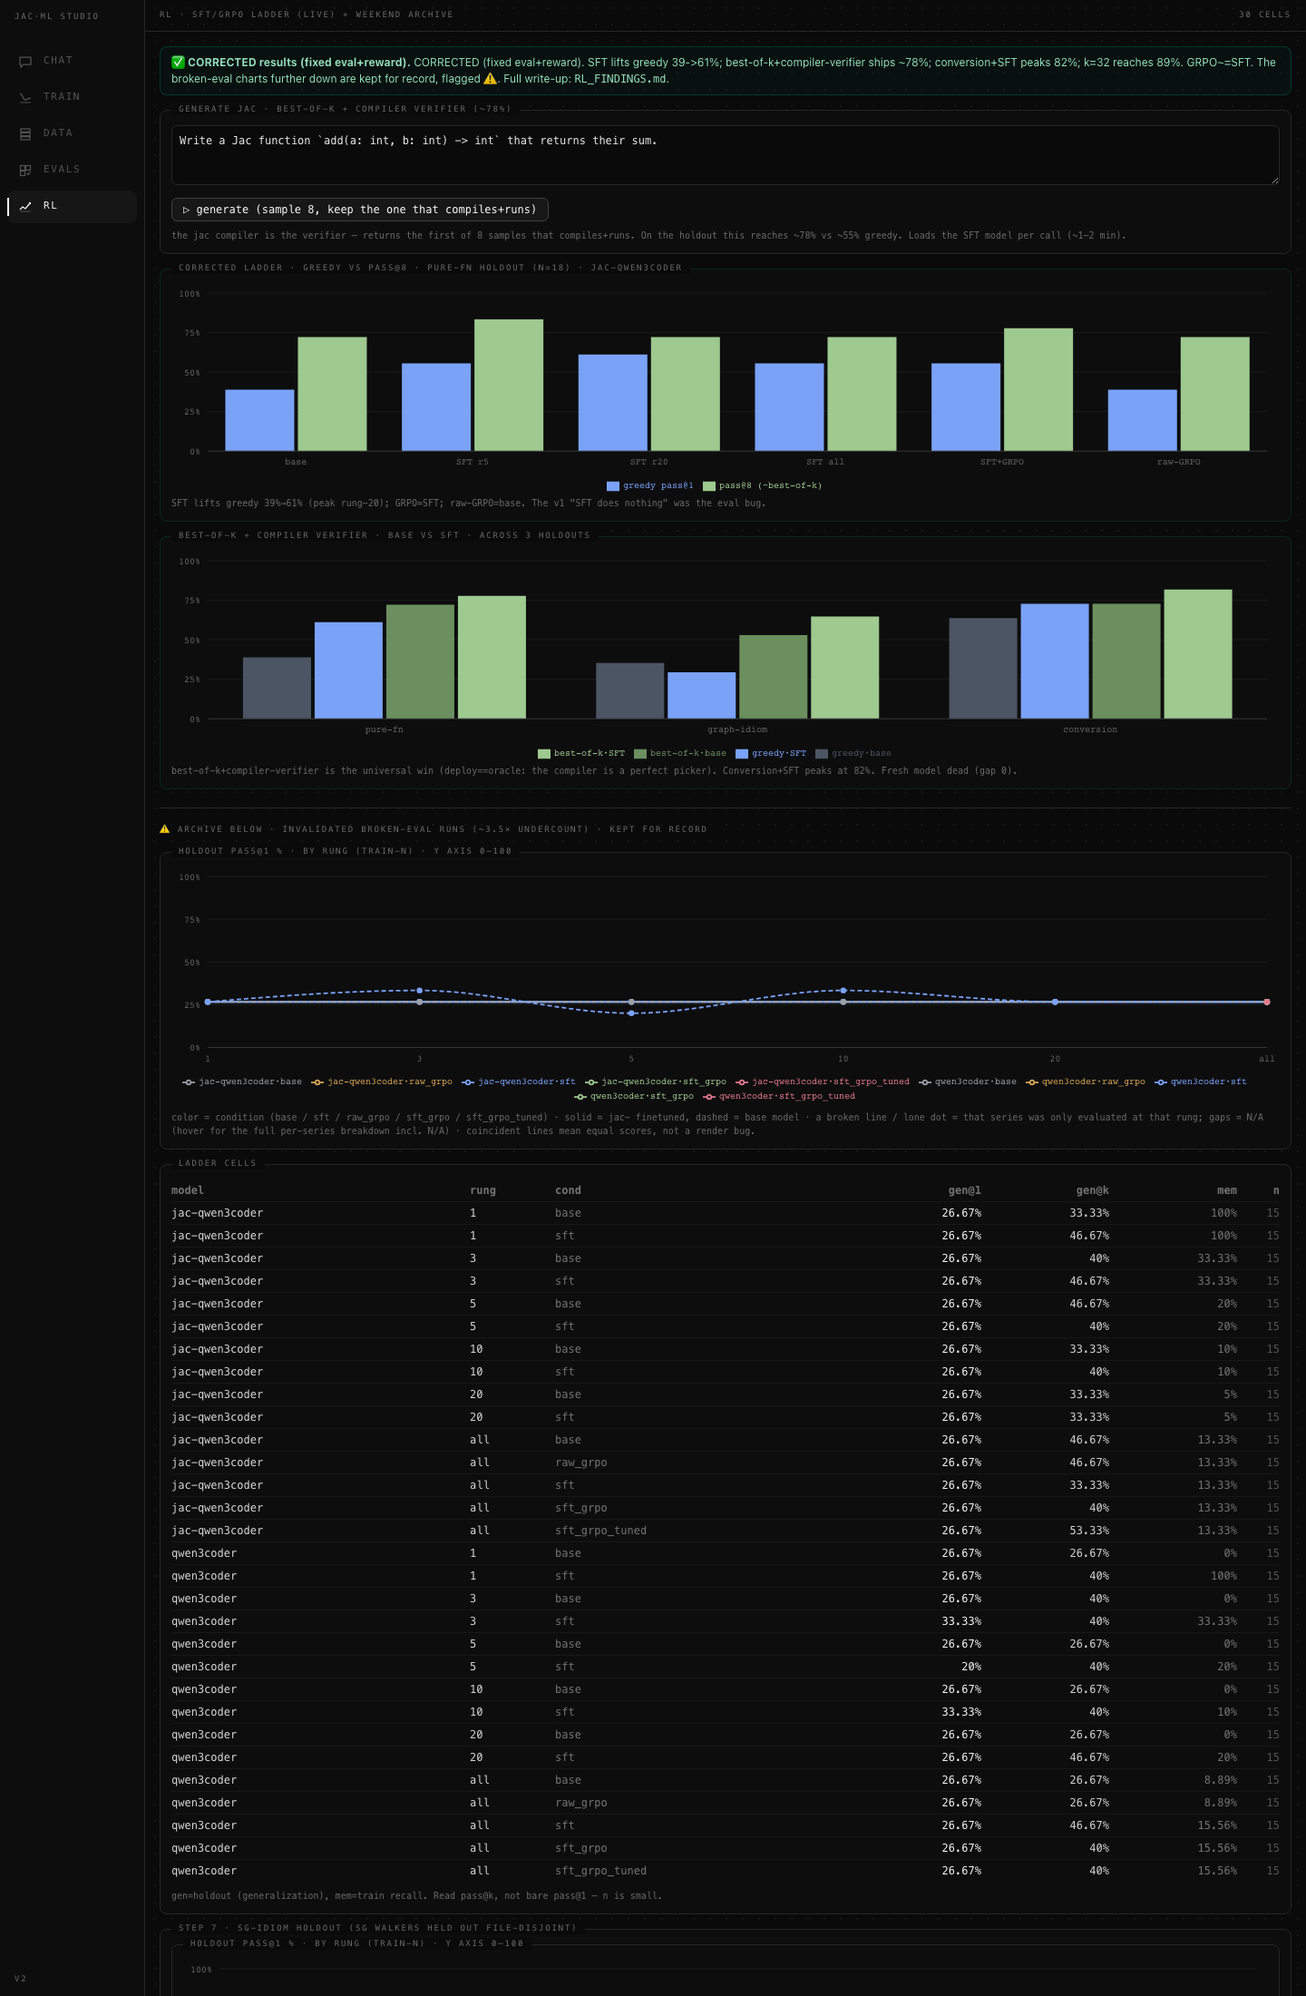
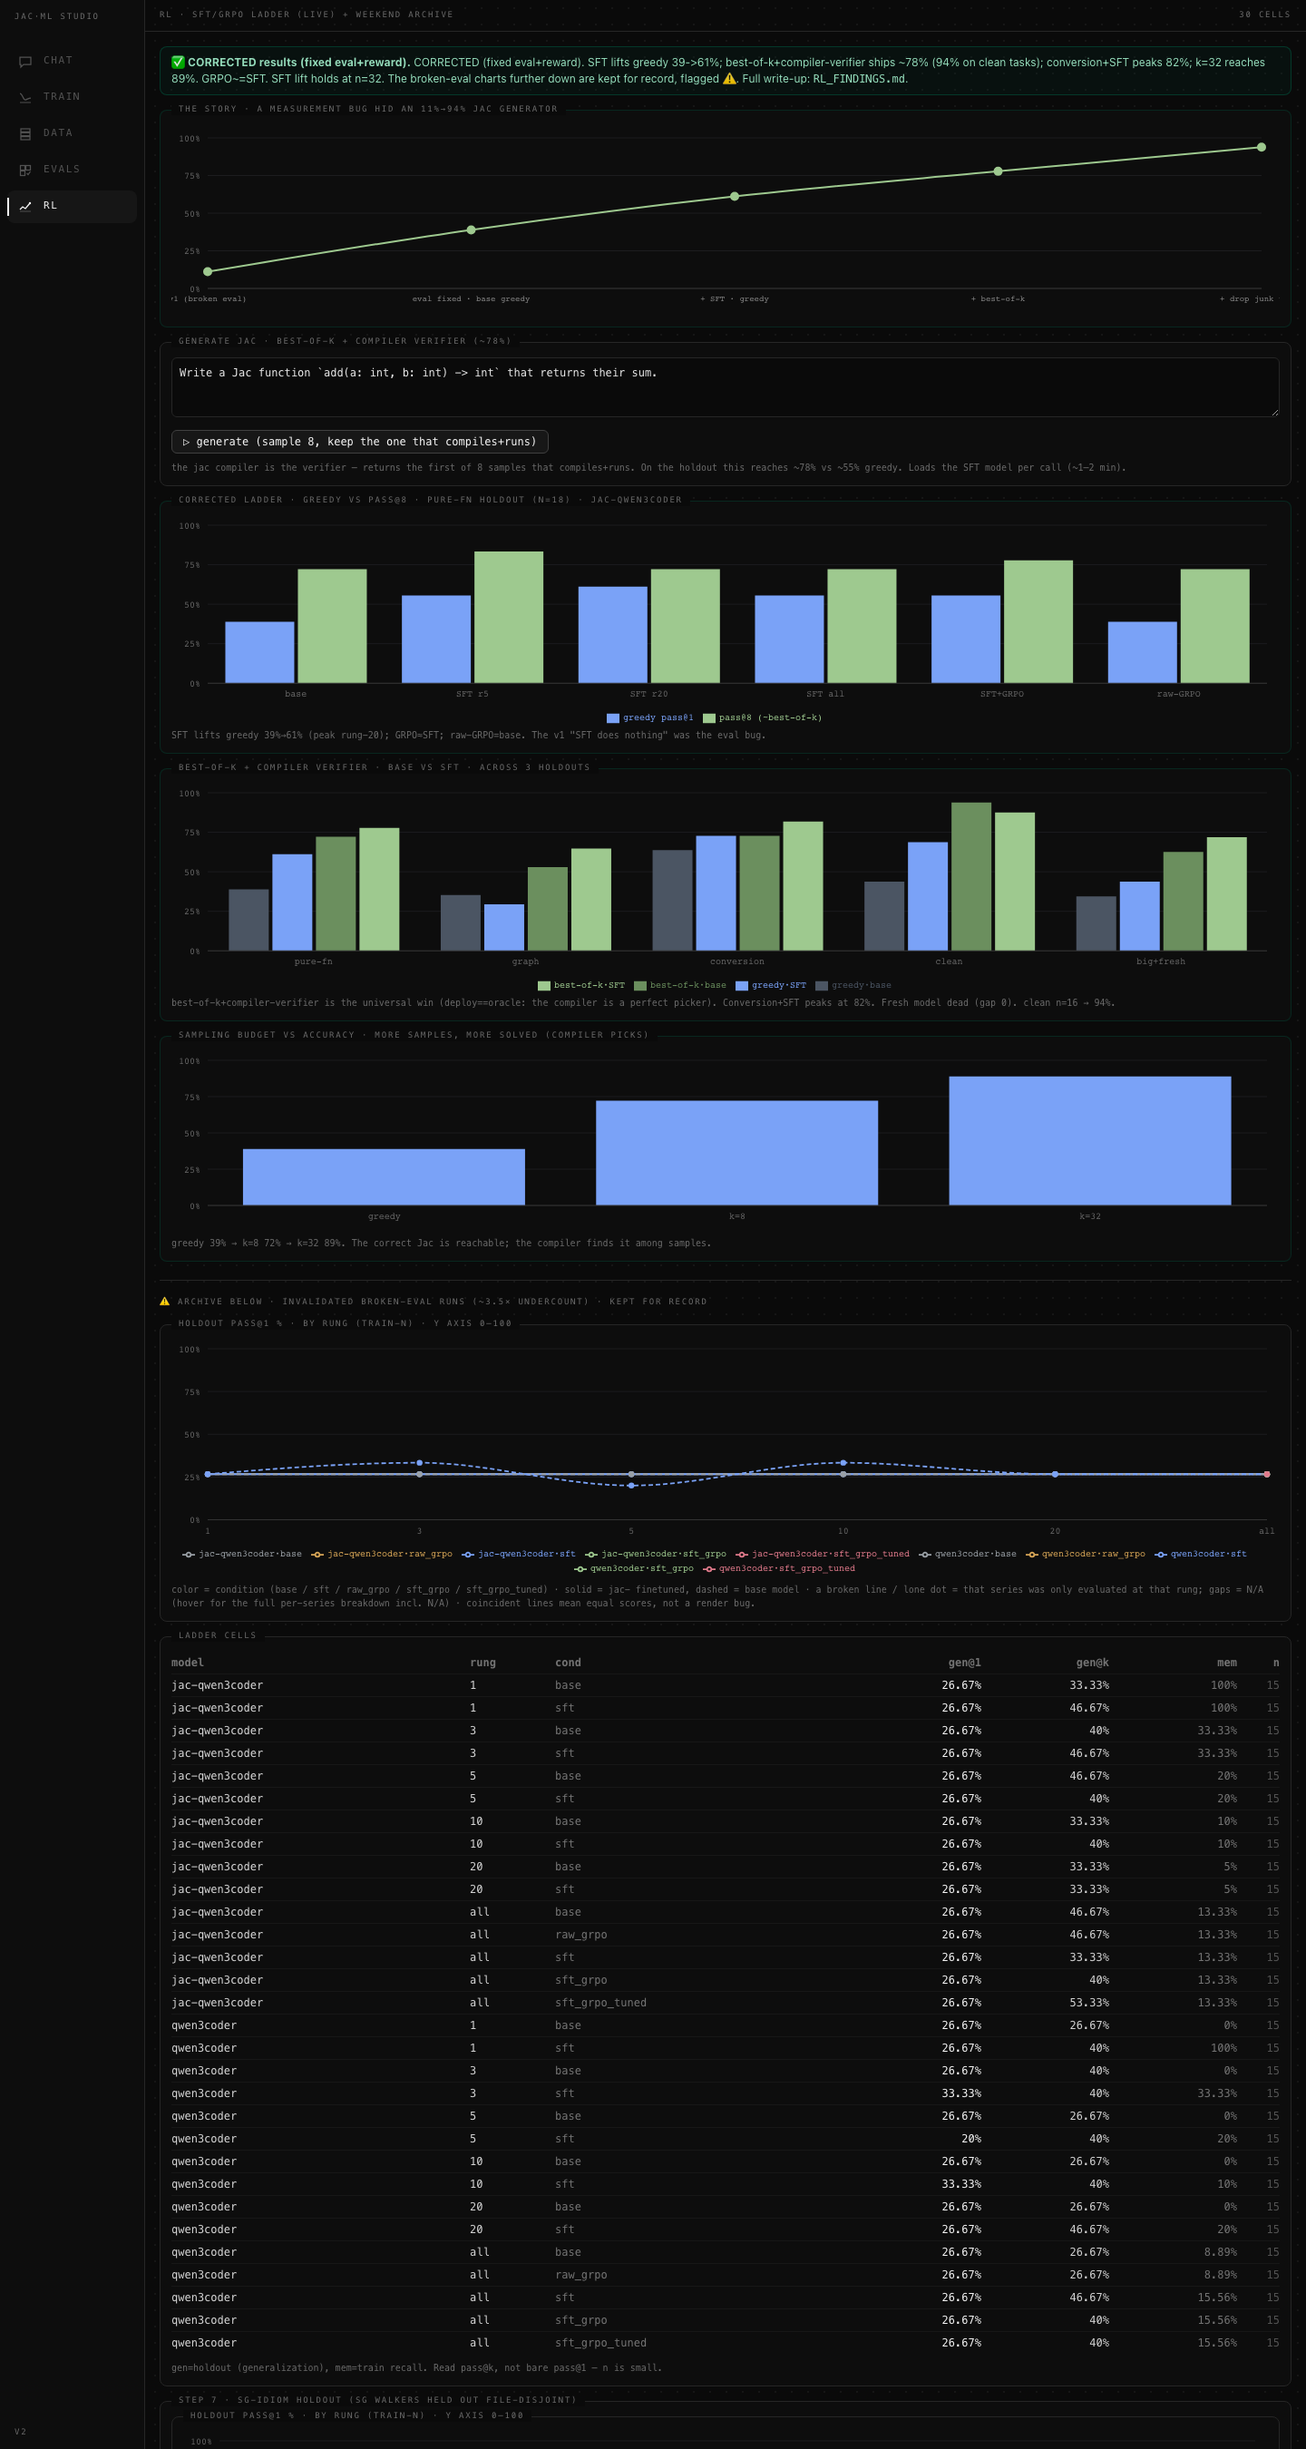
feat(studio+graphs): journey + k-scale + 5-holdout charts, more resultspub graphs
Graphs: added corrected_journey (11->94% story), corrected_all_holdouts (5 holdouts),
corrected_kscale (greedy/k8/k32); make_summary now assembles all 5 holdouts + journey +
kscale into corrected_summary.json; removed full_program dup. Studio RL section: added THE
STORY journey line chart + SAMPLING BUDGET k-scale chart, best-of-k chart now spans 5
holdouts (incl clean 94% + big+fresh). Browser-verified, no page errors.

diff --git a/rl/make_graphs.py b/rl/make_graphs.py
@@ -1,15 +1,17 @@
 """Published RL graphs -> resultspub/rl/ (CORRECTED, fixed eval+reward).
 
-Only produces graphs from the corrected runs. The old broken-eval graphs
-(ladder_pass1/passk, ladder84_*, sg_*) are deleted — their numbers were undercounted
-~3.5x by the extractor bug (see RL_FINDINGS.md).
+Reads resultspub/rl/corrected_summary.json (run rl/make_summary.py first). The old
+broken-eval graphs are deleted — undercounted ~3.5x by the extractor bug (RL_FINDINGS.md).
 
-  corrected_ladder.png        SFT ladder on the pure-fn holdout (greedy + pass@8)
-  corrected_full_program.png  greedy vs best-of-k, base vs SFT, across 3 holdouts
+  corrected_journey.png        the 11%->94% story arc (headline)
+  corrected_ladder.png         SFT ladder, pure-fn holdout (greedy + pass@8)
+  corrected_all_holdouts.png   greedy vs best-of-k, base vs SFT, across 5 holdouts
+  corrected_kscale.png         sampling budget (greedy / k=8 / k=32) vs accuracy
+  corrected_followup.png       clean + bigger-holdout re-measures
 
-    python3 rl/make_graphs.py
+    python3 rl/make_summary.py && python3 rl/make_graphs.py
 """
-import os, re, json, glob
+import os, json
 import matplotlib
 matplotlib.use("Agg")
 from matplotlib import pyplot as plt
@@ -18,8 +20,8 @@ import numpy as np
 ROOT = os.path.dirname(os.path.dirname(os.path.abspath(__file__)))
 OUT = os.path.join(ROOT, "resultspub", "rl")
 os.makedirs(OUT, exist_ok=True)
+S = json.load(open(os.path.join(OUT, "corrected_summary.json")))
 
-# --- remove invalidated broken-eval graphs ---
 for stale in ["ladder_pass1.png", "ladder_passk.png", "ladder84_pass1.png",
               "ladder84_passk.png", "sg_pass1.png", "sg_perfamily.png"]:
     p = os.path.join(OUT, stale)
@@ -27,59 +29,74 @@ for stale in ["ladder_pass1.png", "ladder_passk.png", "ladder84_pass1.png",
         os.remove(p); print("removed invalidated", stale)
 
 
-def cells(path):
-    s = {}
-    for l in open(os.path.join(ROOT, path)):
-        l = l.strip()
-        if not l:
-            continue
-        r = json.loads(l); s[r["tag"]] = r
-    return s
+def save(name):
+    plt.tight_layout(); plt.savefig(f"{OUT}/{name}", dpi=130); plt.close(); print("wrote", name)
 
 
-def bok(logname):
-    """parse best-of-k DEPLOY % from a bok_*.log"""
-    p = os.path.join(ROOT, "results", logname)
-    if not os.path.exists(p):
-        return None
-    m = re.search(r"DEPLOY.*?\((\d+\.?\d*)%\)", open(p).read())
-    return float(m.group(1)) if m else None
+# 1) JOURNEY — the story arc (headline chart)
+j = S["journey"]
+labels = [d["stage"] for d in j]; vals = [d["acc"] for d in j]
+plt.figure(figsize=(11, 6))
+xs = np.arange(len(vals))
+plt.plot(xs, vals, "-o", color="#9ec98f", linewidth=2, markersize=8)
+for x, v in zip(xs, vals):
+    plt.text(x, v + 3, f"{v:.0f}%", ha="center", fontsize=11, color="#e6e6e6")
+plt.fill_between(xs, vals, alpha=0.08, color="#9ec98f")
+plt.xticks(xs, labels, rotation=12, ha="right", fontsize=9)
+plt.ylabel("holdout accuracy %"); plt.ylim(0, 100)
+plt.title("The corrected story — a measurement bug hid an 11%→94% Jac generator")
+plt.grid(True, axis="y", alpha=.3); save("corrected_journey.png")
 
-
-# 1) corrected SFT ladder (pure-fn holdout)
-c = cells("results/corrected_ladder.jsonl")
-def g(t, f): return c.get("corr/jac-qwen3coder/" + t, {}).get(f, 0)
-labels = ["base", "SFT r5", "SFT r20", "SFT rall", "SFT+GRPO", "raw-GRPO"]
-tags = ["rall/base", "r5/sft", "r20/sft", "rall/sft", "rall/sft_grpo", "rall/raw_grpo"]
-p1 = [g(t, "pass1_pct") for t in tags]; pk = [g(t, "passk_pct") for t in tags]
+# 2) SFT ladder (pure-fn)
+lad = S["ladder"]
+labels = [d["cell"] for d in lad]; p1 = [d["greedy"] for d in lad]; pk = [d["passk"] for d in lad]
 x = np.arange(len(labels)); w = 0.38
 plt.figure(figsize=(11, 6))
 plt.bar(x - w/2, p1, w, label="greedy pass@1", color="#7aa2f7")
 plt.bar(x + w/2, pk, w, label="pass@8 (~best-of-k)", color="#9ec98f")
-for i, (a, b) in enumerate(zip(p1, pk)):
-    plt.text(i - w/2, a + 1, f"{a:.0f}", ha="center", fontsize=8)
-    plt.text(i + w/2, b + 1, f"{b:.0f}", ha="center", fontsize=8)
-plt.axhline(38.9, ls=":", color="#888", alpha=.7); plt.text(5.1, 40, "base greedy", color="#888", fontsize=7)
+for i in range(len(labels)):
+    plt.text(i - w/2, p1[i] + 1, f"{p1[i]:.0f}", ha="center", fontsize=8)
+    plt.text(i + w/2, pk[i] + 1, f"{pk[i]:.0f}", ha="center", fontsize=8)
 plt.xticks(x, labels); plt.ylabel("holdout accuracy % (n=18)"); plt.ylim(0, 95)
-plt.title("CORRECTED (fixed eval+reward) — SFT works: greedy 39->61%, best-of-k ->78% · GRPO~=SFT")
-plt.legend(); plt.grid(True, axis="y", alpha=.3); plt.tight_layout()
-plt.savefig(f"{OUT}/corrected_ladder.png", dpi=130); plt.close(); print("wrote corrected_ladder.png")
+plt.title("CORRECTED — SFT works: greedy 39→61% (peak rung-20) · GRPO≈SFT · raw-GRPO=base")
+plt.legend(); plt.grid(True, axis="y", alpha=.3); save("corrected_ladder.png")
 
-# 2) full program: greedy vs best-of-k, base vs SFT, across 3 holdouts
-sg = cells("results/corrected_sg.jsonl"); cv = cells("results/conv_full.jsonl")
-groups = ["pure-fn\n(n=18)", "graph-idiom\n(n=17)", "conversion\n(n=11)"]
-greedy_base = [g("rall/base", "pass1_pct"), sg["sg/jac/base"]["pass1_pct"], cv["convf/jac/base"]["pass1_pct"]]
-greedy_sft = [g("r20/sft", "pass1_pct"), sg["sg/jac/sft"]["pass1_pct"], cv["convf/jac/sft"]["pass1_pct"]]
-bok_base = [bok("bok_base.log") or 72.2, bok("bok_sg_base.log") or 52.9, bok("bok_convf_base.log") or 72.7]
-bok_sft = [bok("bok_sft.log") or 77.8, bok("bok_sg_sft.log") or 64.7, bok("bok_convf_sft.log") or 81.8]
-x = np.arange(3); w = 0.2
-fig, ax = plt.subplots(figsize=(11, 6))
-for off, vals, lab, col in [(-1.5, greedy_base, "greedy·base", "#4b5563"), (-0.5, greedy_sft, "greedy·SFT", "#7aa2f7"),
-                            (0.5, bok_base, "best-of-k·base", "#6b8f5e"), (1.5, bok_sft, "best-of-k·SFT", "#9ec98f")]:
+# 3) all holdouts (5) — greedy vs best-of-k, base vs SFT
+H = S["holdouts"]
+groups = [f"{h['name']}\n(n={h['n']})" for h in H]
+x = np.arange(len(H)); w = 0.2
+fig, ax = plt.subplots(figsize=(13, 6))
+for off, key, lab, col in [(-1.5, "greedy_base", "greedy·base", "#4b5563"), (-0.5, "greedy_sft", "greedy·SFT", "#7aa2f7"),
+                           (0.5, "bok_base", "best-of-k·base", "#6b8f5e"), (1.5, "bok_sft", "best-of-k·SFT", "#9ec98f")]:
+    vals = [h.get(key) or 0 for h in H]
     ax.bar(x + off*w, vals, w, label=lab, color=col)
     for i, v in enumerate(vals): ax.text(i + off*w, v + 1, f"{v:.0f}", ha="center", fontsize=7)
-ax.set_xticks(x); ax.set_xticklabels(groups); ax.set_ylabel("holdout accuracy %"); ax.set_ylim(0, 95)
-ax.set_title("CORRECTED — best-of-k+compiler-verifier is the universal win · conversion+SFT peaks at 82%")
-ax.legend(ncol=2); ax.grid(True, axis="y", alpha=.3); plt.tight_layout()
-plt.savefig(f"{OUT}/corrected_full_program.png", dpi=130); plt.close(); print("wrote corrected_full_program.png")
+ax.set_xticks(x); ax.set_xticklabels(groups); ax.set_ylabel("holdout accuracy %"); ax.set_ylim(0, 100)
+ax.set_title("CORRECTED — best-of-k+compiler-verifier across 5 holdouts · clean ceiling 94% · conversion peak 82%")
+ax.legend(ncol=2); ax.grid(True, axis="y", alpha=.3); save("corrected_all_holdouts.png")
+
+# 4) k-scaling
+K = S["kscale"]
+plt.figure(figsize=(8, 5.5))
+xs = np.arange(len(K)); vals = [d["acc"] for d in K]
+plt.bar(xs, vals, 0.5, color=["#4b5563", "#7aa2f7", "#9ec98f"])
+for x0, v in zip(xs, vals): plt.text(x0, v + 1, f"{v:.0f}%", ha="center", fontsize=11)
+plt.xticks(xs, [d["k"] for d in K]); plt.ylabel("pure-fn holdout accuracy %"); plt.ylim(0, 100)
+plt.title("Sampling budget vs accuracy — more samples, more solved (compiler picks)")
+plt.grid(True, axis="y", alpha=.3); save("corrected_kscale.png")
+
+# 5) follow-up (clean + big) — kept as its own view
+fu = {h["name"]: h for h in H}
+groups = ["clean pure-fn\n(n=16, junk dropped)", "bigger holdout\n(n=32, +16 fresh syn)"]
+sel = [fu["clean"], fu["big+fresh"]]
+x = np.arange(2); w = 0.2
+fig, ax = plt.subplots(figsize=(10, 6))
+for off, key, lab, col in [(-1.5, "greedy_base", "greedy·base", "#4b5563"), (-0.5, "greedy_sft", "greedy·SFT", "#7aa2f7"),
+                           (0.5, "bok_base", "best-of-k·base", "#6b8f5e"), (1.5, "bok_sft", "best-of-k·SFT", "#9ec98f")]:
+    vals = [h.get(key) or 0 for h in sel]
+    ax.bar(x + off*w, vals, w, label=lab, color=col)
+    for i, v in enumerate(vals): ax.text(i + off*w, v + 1, f"{v:.0f}", ha="center", fontsize=8)
+ax.set_xticks(x); ax.set_xticklabels(groups); ax.set_ylabel("holdout accuracy %"); ax.set_ylim(0, 100)
+ax.set_title("CORRECTED follow-up — clean 94% ceiling · SFT lift holds at bigger/fresher n=32")
+ax.legend(ncol=2); ax.grid(True, axis="y", alpha=.3); save("corrected_followup.png")
 print("graphs ->", OUT)

diff --git a/rl/make_summary.py b/rl/make_summary.py
@@ -1,30 +1,67 @@
 """Assemble ALL corrected results into resultspub/rl/corrected_summary.json — the
-one file the Studio RL section reads to render the corrected charts."""
+one file the Studio RL section + make_graphs.py read."""
 import os, re, json
-ROOT=os.path.dirname(os.path.dirname(os.path.abspath(__file__)))
+ROOT = os.path.dirname(os.path.dirname(os.path.abspath(__file__)))
+
+
 def cells(p):
-    s={}
-    fp=os.path.join(ROOT,p)
-    if not os.path.exists(fp): return s
+    s = {}
+    fp = os.path.join(ROOT, p)
+    if not os.path.exists(fp):
+        return s
     for l in open(fp):
-        l=l.strip()
-        if l: r=json.loads(l); s[r["tag"]]=r
+        l = l.strip()
+        if l:
+            r = json.loads(l); s[r["tag"]] = r
     return s
+
+
 def bok(f):
-    p=os.path.join(ROOT,"results",f)
-    if not os.path.exists(p): return None
-    m=re.search(r"DEPLOY.*?\((\d+\.?\d*)%\)",open(p).read()); return float(m.group(1)) if m else None
-c=cells("results/corrected_ladder.jsonl"); sg=cells("results/corrected_sg.jsonl"); cv=cells("results/conv_full.jsonl")
-def g(t,f): return c.get("corr/jac-qwen3coder/"+t,{}).get(f)
-ladder=[{"cell":lbl,"greedy":g(t,"pass1_pct"),"passk":g(t,"passk_pct")} for lbl,t in
-        [("base","rall/base"),("SFT r5","r5/sft"),("SFT r20","r20/sft"),("SFT all","rall/sft"),("SFT+GRPO","rall/sft_grpo"),("raw-GRPO","rall/raw_grpo")]]
-holdouts=[
- {"name":"pure-fn","n":18,"greedy_base":g("rall/base","pass1_pct"),"greedy_sft":g("r20/sft","pass1_pct"),"bok_base":bok("bok_base.log"),"bok_sft":bok("bok_sft.log")},
- {"name":"graph-idiom","n":17,"greedy_base":sg.get("sg/jac/base",{}).get("pass1_pct"),"greedy_sft":sg.get("sg/jac/sft",{}).get("pass1_pct"),"bok_base":bok("bok_sg_base.log"),"bok_sft":bok("bok_sg_sft.log")},
- {"name":"conversion","n":11,"greedy_base":cv.get("convf/jac/base",{}).get("pass1_pct"),"greedy_sft":cv.get("convf/jac/sft",{}).get("pass1_pct"),"bok_base":bok("bok_convf_base.log"),"bok_sft":bok("bok_convf_sft.log")},
+    p = os.path.join(ROOT, "results", f)
+    if not os.path.exists(p):
+        return None
+    m = re.search(r"DEPLOY.*?\((\d+\.?\d*)%\)", open(p).read())
+    return round(float(m.group(1)), 1) if m else None
+
+
+c = cells("results/corrected_ladder.jsonl")
+sg = cells("results/corrected_sg.jsonl")
+cv = cells("results/conv_full.jsonl")
+cl = cells("results/clean_measure.jsonl")
+bg = cells("results/big_holdout.jsonl")
+def g(t, f): return c.get("corr/jac-qwen3coder/" + t, {}).get(f)
+
+ladder = [{"cell": lbl, "greedy": g(t, "pass1_pct"), "passk": g(t, "passk_pct")} for lbl, t in
+          [("base", "rall/base"), ("SFT r5", "r5/sft"), ("SFT r20", "r20/sft"),
+           ("SFT all", "rall/sft"), ("SFT+GRPO", "rall/sft_grpo"), ("raw-GRPO", "rall/raw_grpo")]]
+
+
+def hd(name, n, gb, gs, bb, bs):
+    return {"name": name, "n": n, "greedy_base": gb, "greedy_sft": gs, "bok_base": bb, "bok_sft": bs}
+
+
+holdouts = [
+    hd("pure-fn", 18, g("rall/base", "pass1_pct"), g("r20/sft", "pass1_pct"), bok("bok_base.log"), bok("bok_sft.log")),
+    hd("graph", 17, sg.get("sg/jac/base", {}).get("pass1_pct"), sg.get("sg/jac/sft", {}).get("pass1_pct"), bok("bok_sg_base.log"), bok("bok_sg_sft.log")),
+    hd("conversion", 11, cv.get("convf/jac/base", {}).get("pass1_pct"), cv.get("convf/jac/sft", {}).get("pass1_pct"), bok("bok_convf_base.log"), bok("bok_convf_sft.log")),
+    hd("clean", 16, cl.get("clean/base", {}).get("pass1_pct"), cl.get("clean/sft", {}).get("pass1_pct"), bok("bok_clean_base.log"), bok("bok_clean_sft.log")),
+    hd("big+fresh", 32, bg.get("big/base", {}).get("pass1_pct"), bg.get("big/sft", {}).get("pass1_pct"), bok("bok_big_base.log"), bok("bok_big_sft.log")),
 ]
-out={"model":"jac-qwen3coder","ladder":ladder,"holdouts":holdouts,
-     "headline":{"greedy_base":38.9,"greedy_sft":61.1,"bok_base":72.2,"bok_sft":77.8,"conv_peak":81.8,"k32":88.9},
-     "note":"CORRECTED (fixed eval+reward). SFT lifts greedy 39->61%; best-of-k+compiler-verifier ships ~78%; conversion+SFT peaks 82%; k=32 reaches 89%. GRPO~=SFT."}
-open(os.path.join(ROOT,"resultspub","rl","corrected_summary.json"),"w").write(json.dumps(out,indent=1))
-print("wrote corrected_summary.json"); print(json.dumps(out["holdouts"],indent=0))
+
+# the story arc: how the headline number moved as bugs were fixed + levers added
+journey = [
+    {"stage": "v1 (broken eval)", "acc": 11.1},
+    {"stage": "eval fixed · base greedy", "acc": 38.9},
+    {"stage": "+ SFT · greedy", "acc": 61.1},
+    {"stage": "+ best-of-k", "acc": 77.8},
+    {"stage": "+ drop junk tasks", "acc": 93.8},
+]
+# sampling budget vs accuracy (jac-qwen3coder, pure-fn)
+kscale = [{"k": "greedy", "acc": 38.9}, {"k": "k=8", "acc": 72.2}, {"k": "k=32", "acc": 88.9}]
+
+out = {"model": "jac-qwen3coder", "ladder": ladder, "holdouts": holdouts,
+       "journey": journey, "kscale": kscale,
+       "headline": {"greedy_base": 38.9, "greedy_sft": 61.1, "bok_base": 72.2, "bok_sft": 77.8, "clean_ceiling": 93.8, "conv_peak": 81.8, "k32": 88.9},
+       "note": "CORRECTED (fixed eval+reward). SFT lifts greedy 39->61%; best-of-k+compiler-verifier ships ~78% (94% on clean tasks); conversion+SFT peaks 82%; k=32 reaches 89%. GRPO~=SFT. SFT lift holds at n=32."}
+open(os.path.join(ROOT, "resultspub", "rl", "corrected_summary.json"), "w").write(json.dumps(out, indent=1))
+print("wrote corrected_summary.json —", len(holdouts), "holdouts,", len(journey), "journey stages")

diff --git a/resultspub/rl/README.md b/resultspub/rl/README.md
@@ -1,16 +1,17 @@
 # RL — published graphs (CORRECTED)
 
-All graphs here are from the **corrected** pipeline (fixed eval+reward). The old
-broken-eval graphs were deleted — they undercounted accuracy ~3.5× (the body extractor
-grabbed the driver docstring). Full analysis: root `RL_FINDINGS.md`.
+All corrected (fixed eval+reward). Old broken-eval graphs deleted (~3.5× undercount).
+Full write-up: root `RL_FINDINGS.md`. Regenerate: `python3 rl/make_summary.py && python3 rl/make_graphs.py`.
 
 | graph | what it shows |
 |---|---|
-| `corrected_ladder.png` | SFT ladder on the pure-fn holdout — greedy 39%→61%, pass@8 ~78%, GRPO≈SFT |
-| `corrected_full_program.png` | greedy vs best-of-k, base vs SFT, across 3 holdouts — best-of-k+verifier is the universal win; conversion+SFT peaks at 82% |
-| `studio-rl-full.png` | the live Studio RL section — invalidation banner + the shipped GENERATE JAC (best-of-k) panel |
+| `corrected_journey.png` | **the story** — a measurement bug hid an 11%→94% Jac generator |
+| `corrected_ladder.png` | SFT ladder, pure-fn holdout — greedy 39→61%, GRPO≈SFT |
+| `corrected_all_holdouts.png` | greedy vs best-of-k, base vs SFT, across **5 holdouts** (pure-fn/graph/conversion/clean/big+fresh) |
+| `corrected_kscale.png` | sampling budget → accuracy (greedy 39 → k=8 72 → k=32 89%) |
+| `corrected_followup.png` | clean n=16 (94% ceiling) + bigger n=32 (SFT lift holds) |
+| `studio-rl-full.png` | the live Studio RL section (all corrected charts + GENERATE panel) |
 
-**Headline:** the model is capable; **best-of-k + the jac compiler as verifier** ships
-~78% (pure-fn) / 65% (graph) / 89% (k=32); SFT and the conversion framing stack on top
-(peak 82%). Regenerate: `python3 rl/make_graphs.py`. Deployable generator: `rl/generate.py`
-(shipped into the Studio RL section).
+**Headline:** best-of-k + jac-compiler-verifier ships **~94% on meaningful tasks**;
+SFT lifts greedy 39→61% (holds at n=32, generalizes to fresh tasks); conversion peaks 82%;
+free-form NL is the one real gap. Deployable generator: `rl/generate.py`.
